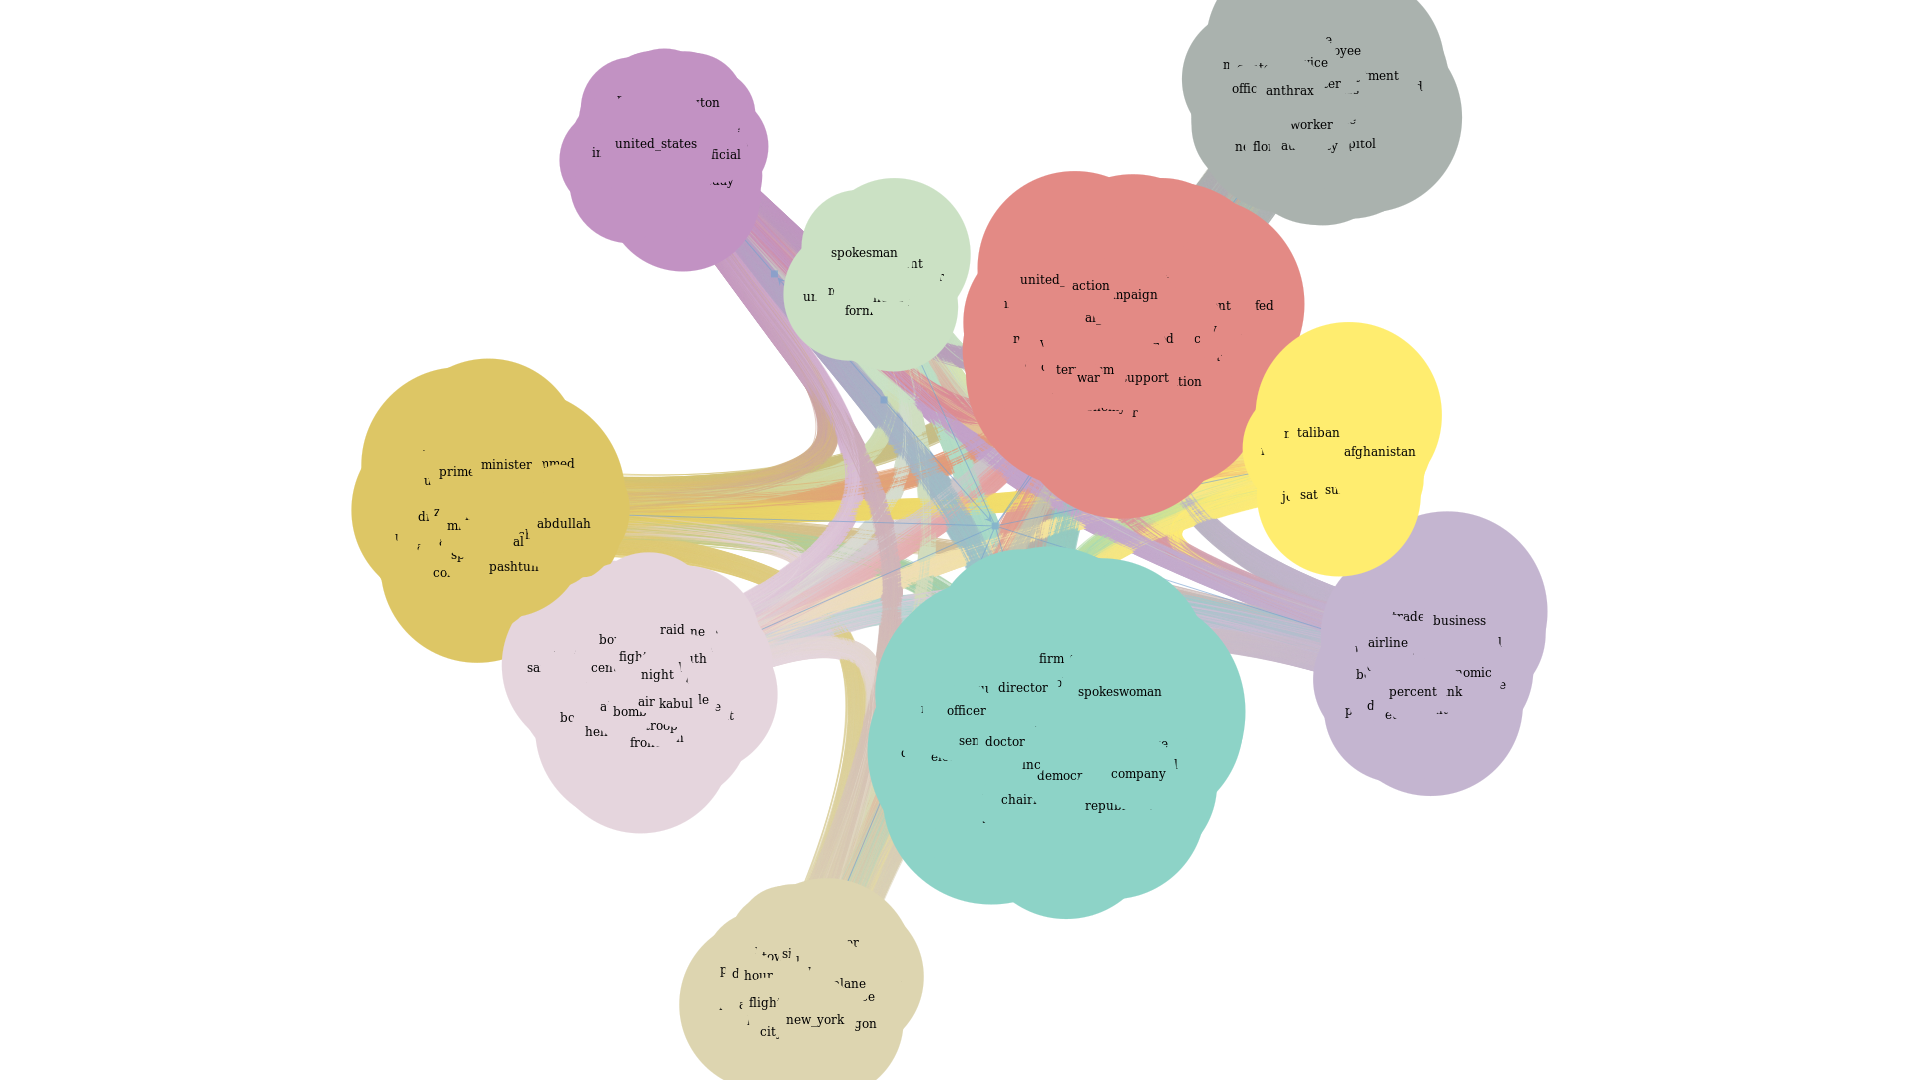
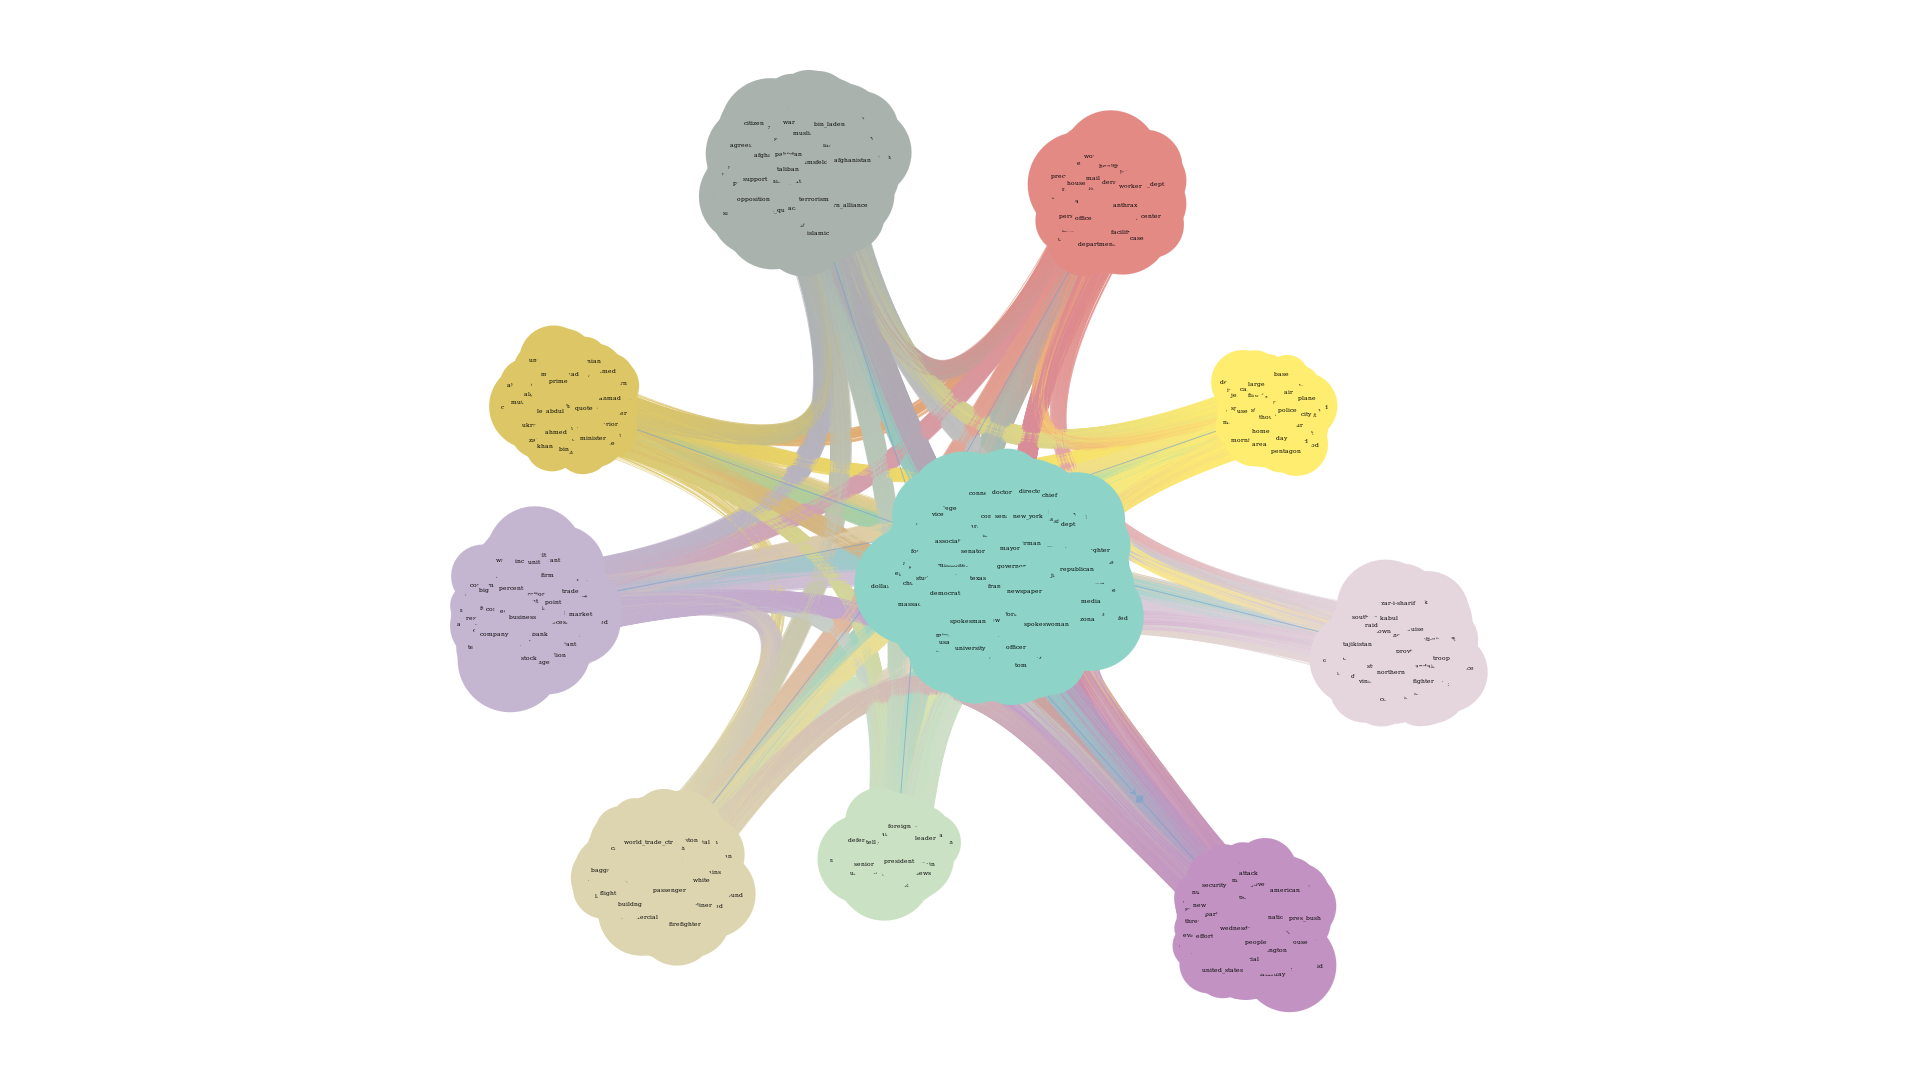
Change vertices and font size

diff --git a/src/visualization/visualize.py b/src/visualization/visualize.py
@@ -74,6 +74,8 @@ def visualize_communities(graph):
                                                    verbose=True)
     gd.draw_hierarchy(state_block,
                       vertex_text=graph.vertex_properties["_graphml_vertex_id"],
+                      vertex_size=1,
+                      vertex_font_size=6,
                       output_size=(1920, 1080),
                       layout="sfdp",
                       output=FIGURES_PATH + COMMUNITY_VIZ)
@@ -82,4 +84,4 @@ def visualize_communities(graph):
 if __name__ == "__main__":
     G = load_graphml_format(GRAPHML_FORMAT)
     G.set_directed(False)
-    visualize_graph(G)
+    visualize_communities(G)
